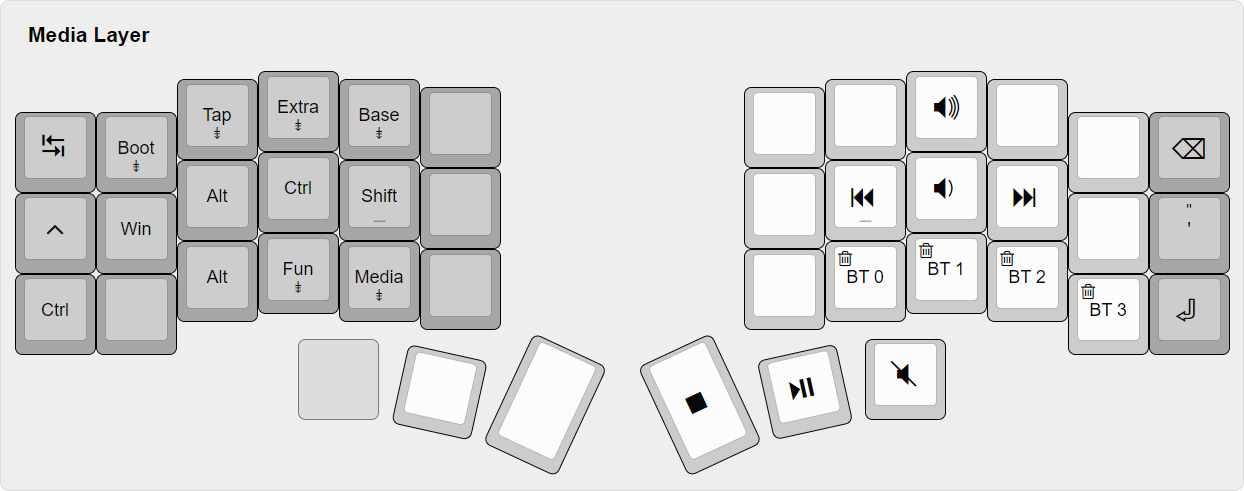
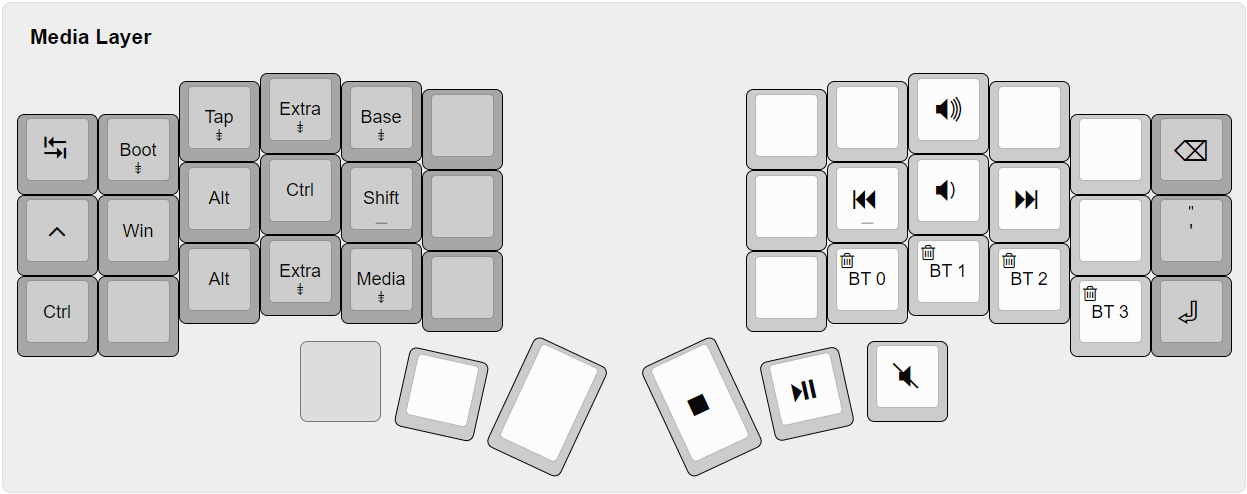
Stable 0

diff --git a/miryoku/custom_config.h b/miryoku/custom_config.h
@@ -32,10 +32,10 @@
 
 
 #define MIRYOKU_LAYER_BASE \
-&kp FR_Q,               &kp FR_W,          &kp FR_E,            &kp FR_R,           &kp FR_T,          &kp FR_Y,          &kp FR_U,          &kp FR_I,               &kp FR_O,                     &kp FR_P,                \
-HRML(FR_A,              FR_S,              FR_D,                FR_F),              &kp FR_G,          &kp FR_H,          HRMR(FR_J,         FR_K,                   FR_L,                         FR_SEMI_S),             \
-U_LT(U_BUTTON, FR_Z),   U_MT(RALT, FR_X),  &kp FR_C,            &kp FR_V,           &kp FR_B,          &kp FR_N,          &kp FR_M,          &FR_COMMA_S,            U_MT_BIND(RALT, FR_DOT_S),    U_LT_BIND(U_BUTTON, FR_SLASH_S),\
-U_NP,                   U_NP,              U_LT(U_MEDIA, ESC),  U_LT(U_NAV, SPACE), U_LT(U_MOUSE, TAB),U_LT(U_SYM, RET),  U_LT(U_NUM, BSPC), U_LT(U_EXTRA, DEL),     U_NP,                         U_NP
+&kp FR_Q,               &kp FR_W,            &kp FR_E,            &kp FR_R,           &kp FR_T,          &kp FR_Y,          &kp FR_U,          &kp FR_I,               &kp FR_O,                     &kp FR_P,                \
+HRML(FR_A,              FR_S,                FR_D,                FR_F),              &kp FR_G,          &kp FR_H,          HRMR(FR_J,         FR_K,                   FR_L,                         FR_SEMI_S),             \
+U_LT(U_BUTTON, FR_Z),   U_MT(RALT, FR_X),    &kp FR_C,            &kp FR_V,           &kp FR_B,          &kp FR_N,          &kp FR_M,          &FR_COMMA_S,            U_LT_BIND(U_FUN, FR_DOT_S),   U_LT_BIND(U_BUTTON, FR_SLASH_S),\
+U_NP,                   U_NP,                U_LT(U_MEDIA, ESC),  U_LT(U_NAV, SPACE), U_LT(U_MOUSE, TAB),U_LT(U_SYM, RET),  U_LT(U_NUM, BSPC), U_LT(U_EXTRA, DEL),     U_NP,                         U_NP
 
 #define MIRYOKU_LAYER_TAP \
 &kp FR_Q,          &kp FR_W,          &kp FR_E,          &kp FR_R,          &kp FR_T,          &kp FR_Y,          &kp FR_U,          &kp FR_I,          &kp FR_O,          &kp FR_P,             \
